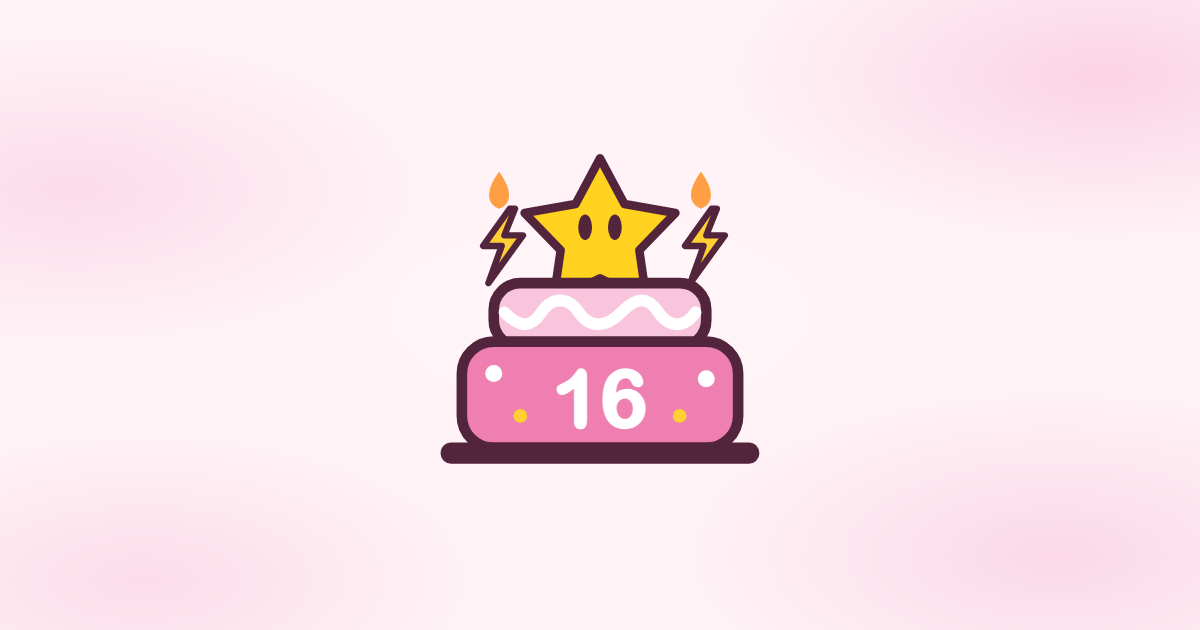
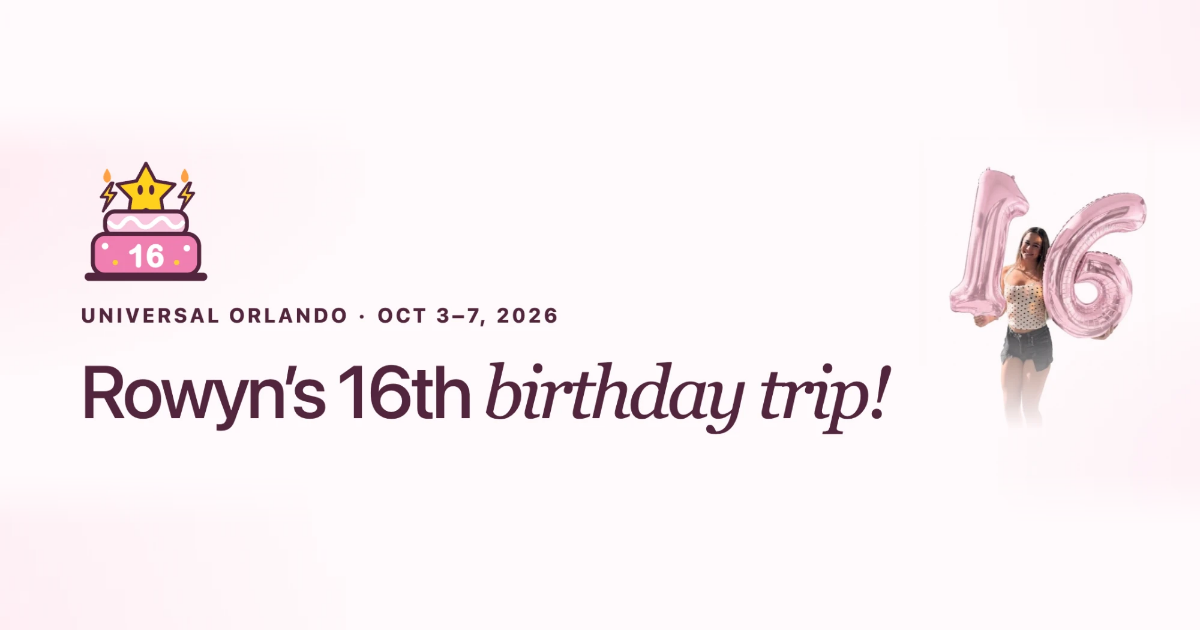
Use the header as the link preview image

diff --git a/index.html b/index.html
@@ -1,5 +1,5 @@
 <!doctype html>
-<html lang="en"><head><meta charset="UTF-8"><meta name="robots" content="noindex, nofollow, noimageindex"><meta name="viewport" content="width=device-width, initial-scale=1, viewport-fit=cover"><meta name="theme-color" content="#fffafc"><meta name="description" content="Three days of rides, birthday moments, and a pocket-sized checklist for Universal Orlando."><meta name="apple-mobile-web-app-capable" content="yes"><meta name="apple-mobile-web-app-title" content="Rowyn’s 16th"><meta name="apple-mobile-web-app-status-bar-style" content="default"><meta property="og:type" content="website"><meta property="og:url" content="https://alisonjoseph.github.io/birthday-park-days/"><meta property="og:title" content="Rowyn’s 16th Birthday Universal Orlando Itinerary"><meta property="og:description" content="Three days at Universal Orlando, Oct 4–6."><meta property="og:image" content="https://alisonjoseph.github.io/birthday-park-days/og-image.png"><meta property="og:image:width" content="1200"><meta property="og:image:height" content="630"><meta name="twitter:card" content="summary_large_image"><title>Rowyn’s 16th Birthday Universal Orlando Itinerary</title><link rel="manifest" href="./manifest.webmanifest?v=49"><link rel="icon" href="./icons/icon.svg?v=49" type="image/svg+xml"><link rel="apple-touch-icon" href="./icons/apple-touch-icon.png?v=49"><link rel="stylesheet" href="./styles.css?v=49"><script defer src="./itinerary.js?v=49"></script><script defer src="./app.js?v=49"></script></head>
+<html lang="en"><head><meta charset="UTF-8"><meta name="robots" content="noindex, nofollow, noimageindex"><meta name="viewport" content="width=device-width, initial-scale=1, viewport-fit=cover"><meta name="theme-color" content="#fffafc"><meta name="description" content="Three days of rides, birthday moments, and a pocket-sized checklist for Universal Orlando."><meta name="apple-mobile-web-app-capable" content="yes"><meta name="apple-mobile-web-app-title" content="Rowyn’s 16th"><meta name="apple-mobile-web-app-status-bar-style" content="default"><meta property="og:type" content="website"><meta property="og:url" content="https://alisonjoseph.github.io/birthday-park-days/"><meta property="og:title" content="Rowyn’s 16th Birthday Universal Orlando Itinerary"><meta property="og:description" content="Three days at Universal Orlando, Oct 4–6."><meta property="og:image" content="https://alisonjoseph.github.io/birthday-park-days/og-image.png?v=2"><meta property="og:image:width" content="1200"><meta property="og:image:height" content="630"><meta name="twitter:card" content="summary_large_image"><title>Rowyn’s 16th Birthday Universal Orlando Itinerary</title><link rel="manifest" href="./manifest.webmanifest?v=49"><link rel="icon" href="./icons/icon.svg?v=49" type="image/svg+xml"><link rel="apple-touch-icon" href="./icons/apple-touch-icon.png?v=49"><link rel="stylesheet" href="./styles.css?v=49"><script defer src="./itinerary.js?v=49"></script><script defer src="./app.js?v=49"></script></head>
 <body><div class="app">
 <section class="trip-heading"><div class="hero"><div class="hero-text"><a href="./" class="brand" aria-label="Rowyn’s 16th home"><img class="brand-cake" src="./icons/cake-16.svg" alt="" width="78" height="78"></a><p class="eyebrow trip-eyebrow"><span>UNIVERSAL ORLANDO</span><span class="dot-sep">OCT 3–7, 2026</span></p><h1>Rowyn’s 16th <em>birthday trip!</em></h1></div><div class="hero-side"><button class="help-button" id="help-open" aria-label="Open trip information and installation help">Trip info <span aria-hidden="true">↗</span></button><img class="hero-photo" src="./photos/hero-photo.jpg" alt="The birthday girl holding pink 1 and 6 balloons" width="180" height="227"></div></div><div class="trip-bottom" hidden><span class="birthday-label">3 parks · 3 days</span><span id="total-progress">0 checked off</span></div></section>
 <div class="top-cover" aria-hidden="true"></div><div id="nav-sentinel" aria-hidden="true"></div><div class="sticky-nav"><nav class="days" aria-label="Choose itinerary day" id="days"></nav><div class="filters" id="filters" role="group" aria-label="Show only"></div></div>
